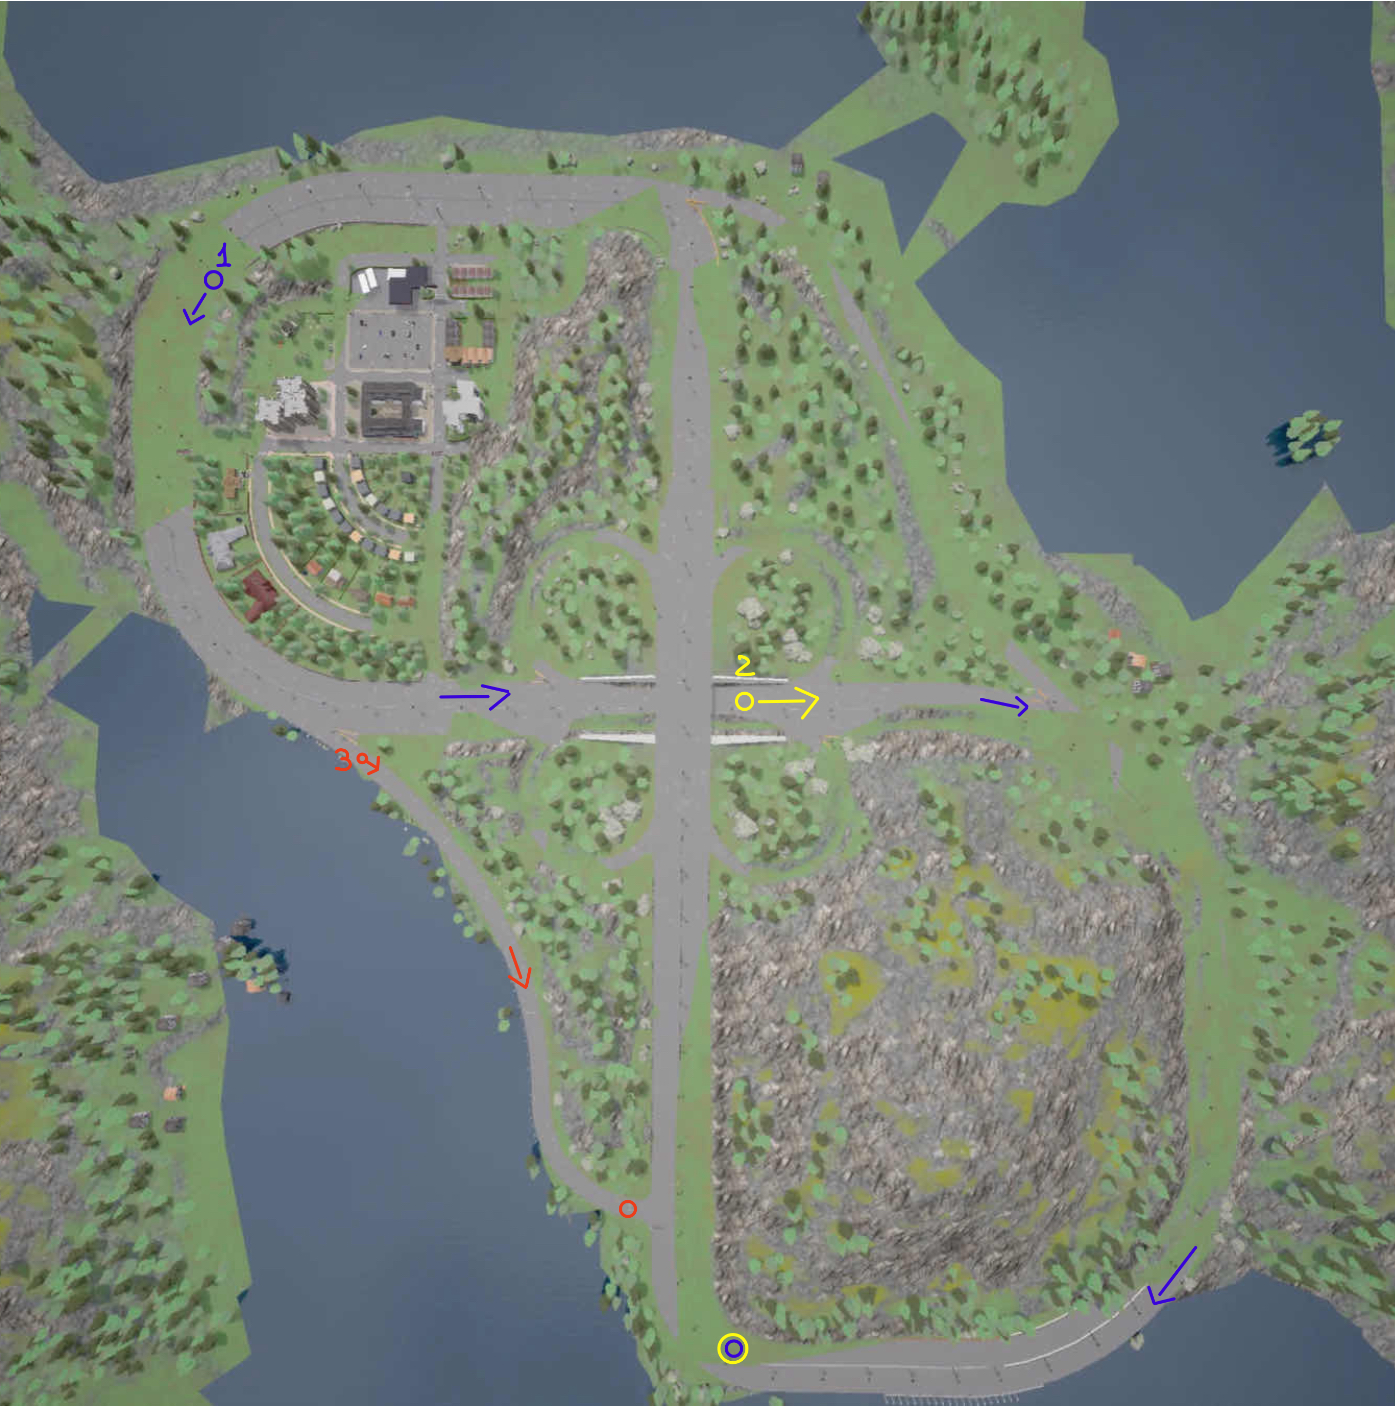
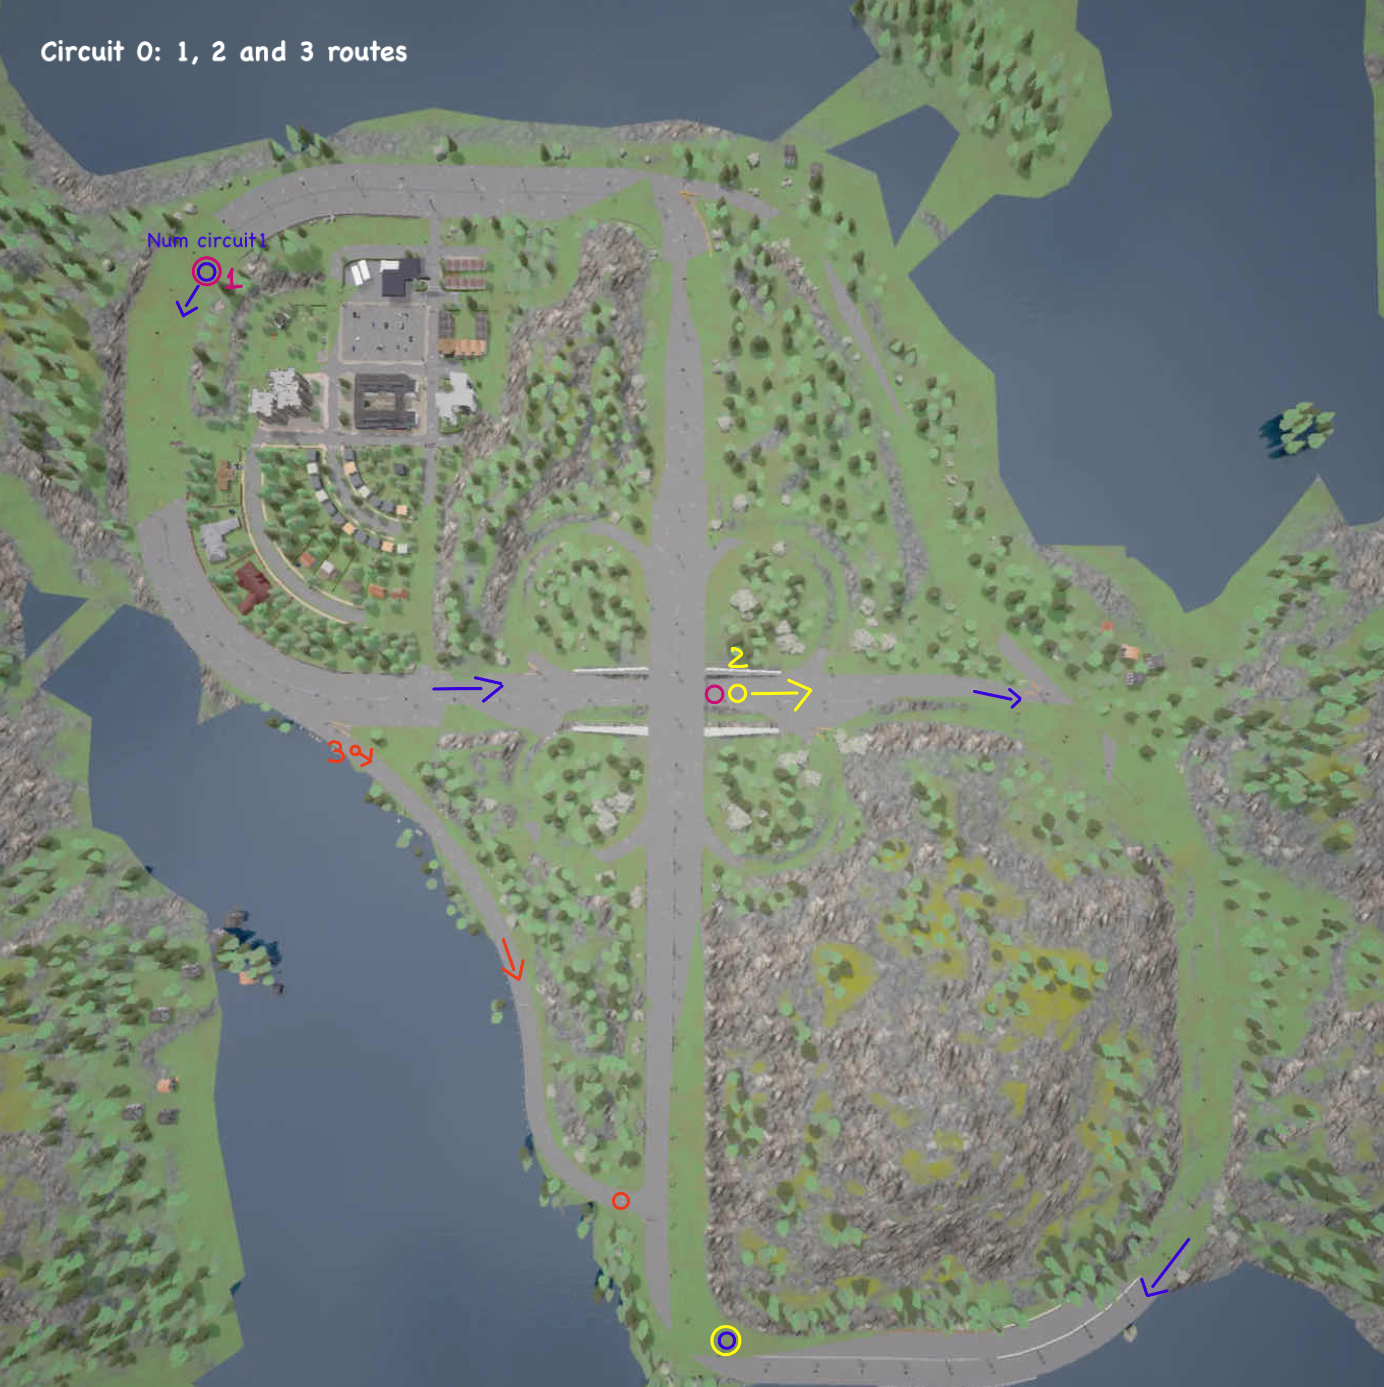
correciones en env

diff --git a/src/configcarla.py b/src/configcarla.py
@@ -128,7 +128,7 @@ class CameraRGB(Sensor):
         self._road_percentage = 0
         self._cm = np.zeros((2,), dtype=np.int32)
         self._area = np.int32(0)
-        self._error_lane = False 
+        self.error_lane = False 
         self._lane_left = []
         self._lane_right = []
         self._extra_surface = None
@@ -193,9 +193,7 @@ class CameraRGB(Sensor):
 
         self._lane_left = self._points_lane(left_boundary, trafo_matrix_global_to_camera, LEFT_LANE)
         self._lane_right = self._points_lane(right_boundary, trafo_matrix_global_to_camera, RIGHT_LANE)
-        if self._lane_left == None or self._lane_right == None:
-            self._error_lane = True
-            assert False, "Lane lost"
+        assert self._lane_left != None or self._lane_right != None, "Lane lost"
 
         # Start in same height
         size_left = len(self._lane_left)
@@ -235,9 +233,7 @@ class CameraRGB(Sensor):
             # Calculate road porcentage
             if self._seg:
                 self._road_percentage = count_road / count_total * 100
-                if self._road_percentage < self._threshold_road_per:
-                    self._error_lane = True
-                    assert False, "Low percentage of lane"
+                assert self._road_percentage >= self._threshold_road_per, "Low percentage of lane"
 
             # Draw center of mass and vehicle
             cv2.line(img, (x_cm, 0), (x_cm, SIZE_CAMERA - 1), (0, 255, 0), 2)
@@ -246,7 +242,7 @@ class CameraRGB(Sensor):
         else:
             self._deviation = SIZE_CAMERA / 2
             self._road_percentage = 0
-            self._error_lane = True
+            self.error_lane = True
             assert False, "Area zero"
 
         return img
@@ -258,7 +254,7 @@ class CameraRGB(Sensor):
         return self._road_percentage
     
     def get_lane_cm(self):
-        if self._error_lane:
+        if self.error_lane:
             # Move cm to the nearest corner
             if self._cm[0] < SIZE_CAMERA / 2:
                 x_cm = 0
@@ -274,7 +270,7 @@ class CameraRGB(Sensor):
         return self._cm
     
     def get_lane_area(self):
-        if self._error_lane:
+        if self.error_lane:
             self._area = 0
 
         return self._area
@@ -289,7 +285,7 @@ class CameraRGB(Sensor):
 
     def process_data(self):
         image = self.data
-        self._error_lane = False
+        self.error_lane = False
         if image == None:
             return 
         
@@ -340,7 +336,7 @@ class CameraRGB(Sensor):
             self.show_surface(surface=self._extra_surface, pos=self.init_extra, text=text_extra)
 
     def get_lane_points(self, num_points:int=5, show:bool=False):
-        if not self._lane or self._error_lane or len(self._lane_left) == 0 or len(self._lane_right) == 0:
+        if not self._lane or self.error_lane or len(self._lane_left) == 0 or len(self._lane_right) == 0:
             return [np.full((num_points, 2), SIZE_CAMERA / 2, dtype=np.int32)] * 2
         
         lane_points = []

diff --git a/src/deepRL/environment.py b/src/deepRL/environment.py
@@ -157,13 +157,12 @@ class CarlaBase(gym.Env, ABC):
             self._town = 'Town04'
             self._init_locations = [
                 carla.Transform(carla.Location(x=352.65, y=-350.7, z=0.1), carla.Rotation(yaw=-137)),
-                carla.Transform(carla.Location(x=-25.0, y=-252, z=0.1), carla.Rotation(yaw=125.0)),
-                carla.Transform(carla.Location(x=-8.76, y=60.8, z=0.1), carla.Rotation(yaw=89.7))
+                carla.Transform(carla.Location(x=-8.76, y=60.8, z=0.1), carla.Rotation(yaw=89.7)),
+                carla.Transform(carla.Location(x=-25.0, y=-252, z=0.1), carla.Rotation(yaw=125.0))
             ]
-        else: # cambiar
-            self._town = 'Town04'
-            self._init_locations = [
-                carla.Transform(carla.Location(x=-25.0, y=-252, z=z), carla.Rotation(yaw=125.0))
+        else:
+            self._init_locations = [ # Merge routes 1 and 2 of circuit 0
+                carla.Transform(carla.Location(x=352.65, y=-350.7, z=0.1), carla.Rotation(yaw=-137)) 
             ]
 
         # Pygame window
@@ -259,21 +258,24 @@ class CarlaBase(gym.Env, ABC):
             # Reward function
             reward = self._calculate_reward()
 
+            # Check if the episode has finished
             t = self.ego_vehicle.get_transform()
             if self._num_cir == 0:
-                finish_ep = self._index_loc <= 1 and(t.location.x + 442) <= 3 and (t.location.y - 30) <= 3
-                finish_ep = finish_ep or self._index_loc == 2 and t.location.y > -24.5
-                terminated = finish_ep
-
-            else: # cambiar
-                if t.location.y > -24.5:
-                    terminated = True
-                    finish_ep = True
+                if self._index_loc == 0:
+                    finish_ep = abs(t.location.x + 7) <= 3 and abs(t.location.y - 55) <= 3
+                elif self._index_loc == 1:
+                    finish_ep =  abs(t.location.x + 442) <= 3 and abs(t.location.y - 30) <= 3
+                else:
+                    finish_ep = self._index_loc == 2 and t.location.y > -24.5
+            else: 
+                finish_ep =  abs(t.location.x + 442) <= 3 and abs(t.location.y - 30) <= 3
+            terminated = finish_ep
             
         except AssertionError:
             terminated = True
             reward = self._penalty_lane
-            print("No termino", self._count_ep, "finish:", finish_ep)
+            self._camera.error_lane = True
+            print("No termino", self._count_ep, "steps:", self._count, "index:", self._index_loc, "t:", self.ego_vehicle.get_transform())
 
         # Check if a key has been pressed
         if self._human:
@@ -281,6 +283,9 @@ class CarlaBase(gym.Env, ABC):
 
         self._total_reward += reward
         self._count += 1
+
+        if finish_ep:
+            print("Termino:", self._count_ep, "steps:", self._count, "index:", self._index_loc, "t:", t)
 
         if terminated and self._train:
             if self.model != None:

diff --git a/src/follow_lane_pid.py b/src/follow_lane_pid.py
@@ -34,8 +34,9 @@ def main(args):
                 if event.type == pygame.QUIT:
                     return
            
-            sensors.update_data(flip=False)
+            sensors.update_data()
             t = ego_vehicle.get_transform()
+            print(t)
 
             if t.location.y > -24.5:
                 print("Finish route")
@@ -43,8 +44,6 @@ def main(args):
             
             # Control vehicle
             error_road = camera.get_deviation()
-            camera.get_lane_points(show=True, num_points=10)
-            pygame.display.flip()
             pid.controll_vehicle(error_road)
 
     except KeyboardInterrupt:

diff --git a/src/deepRL/train.py b/src/deepRL/train.py
@@ -70,7 +70,7 @@ def main(args):
                                              port=args.port, alg=args.alg, normalize=True, seed=SEED),
                                              n_envs=1)
     else:
-        env = env_class(train=True, fixed_delta_seconds=args.delta, human=True, port=args.port,
+        env = env_class(train=True, fixed_delta_seconds=args.delta, human=False, port=args.port,
                         alg=args.alg, normalize=True, seed=SEED)
 
     model = alg_class(policy, env, verbose=args.verbose, seed=SEED, tensorboard_log=log_dir, **model_params)
